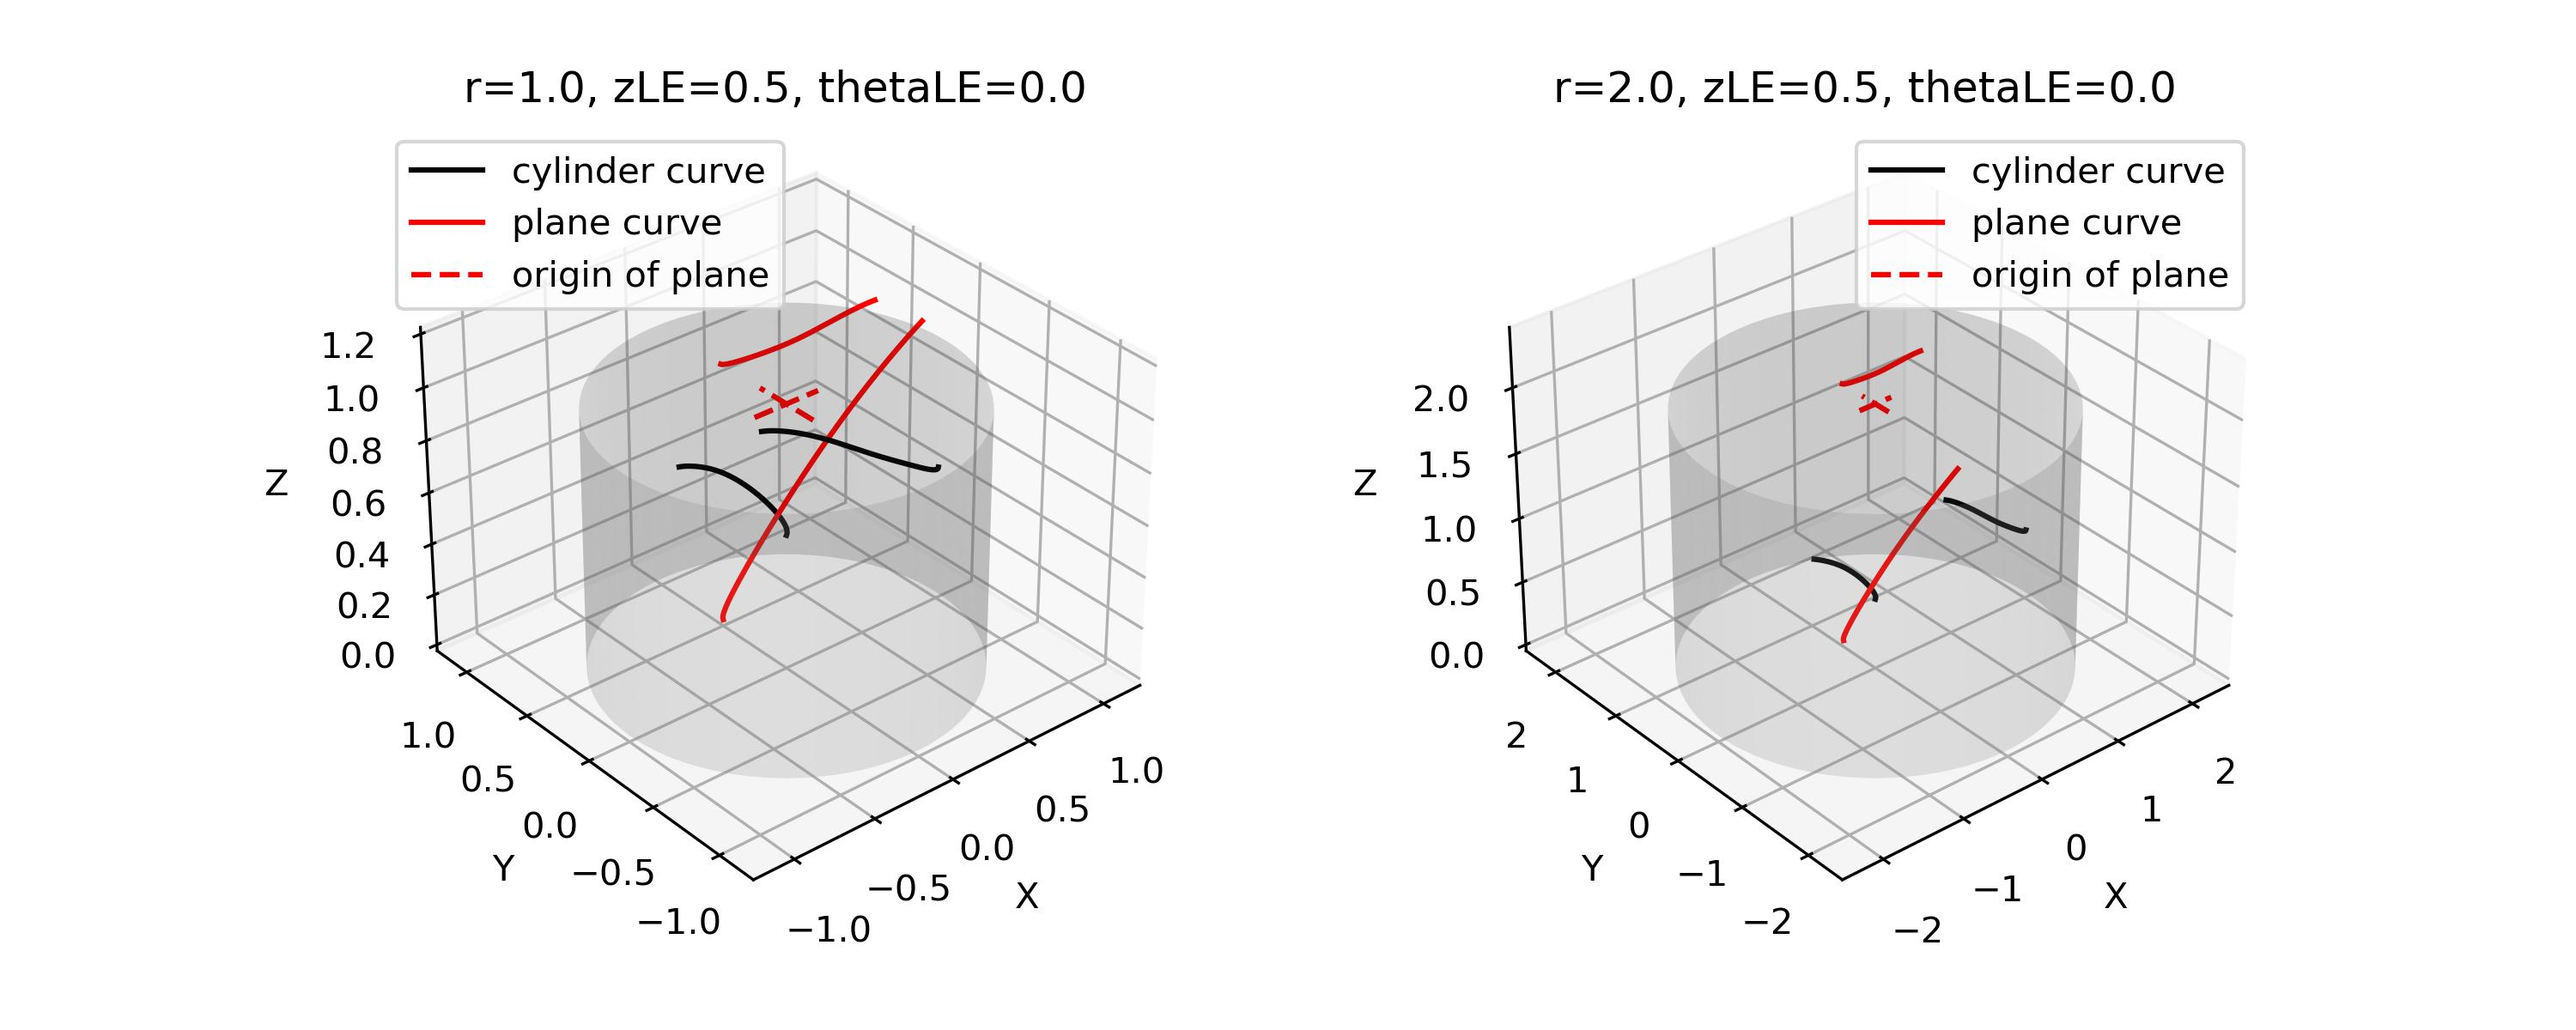
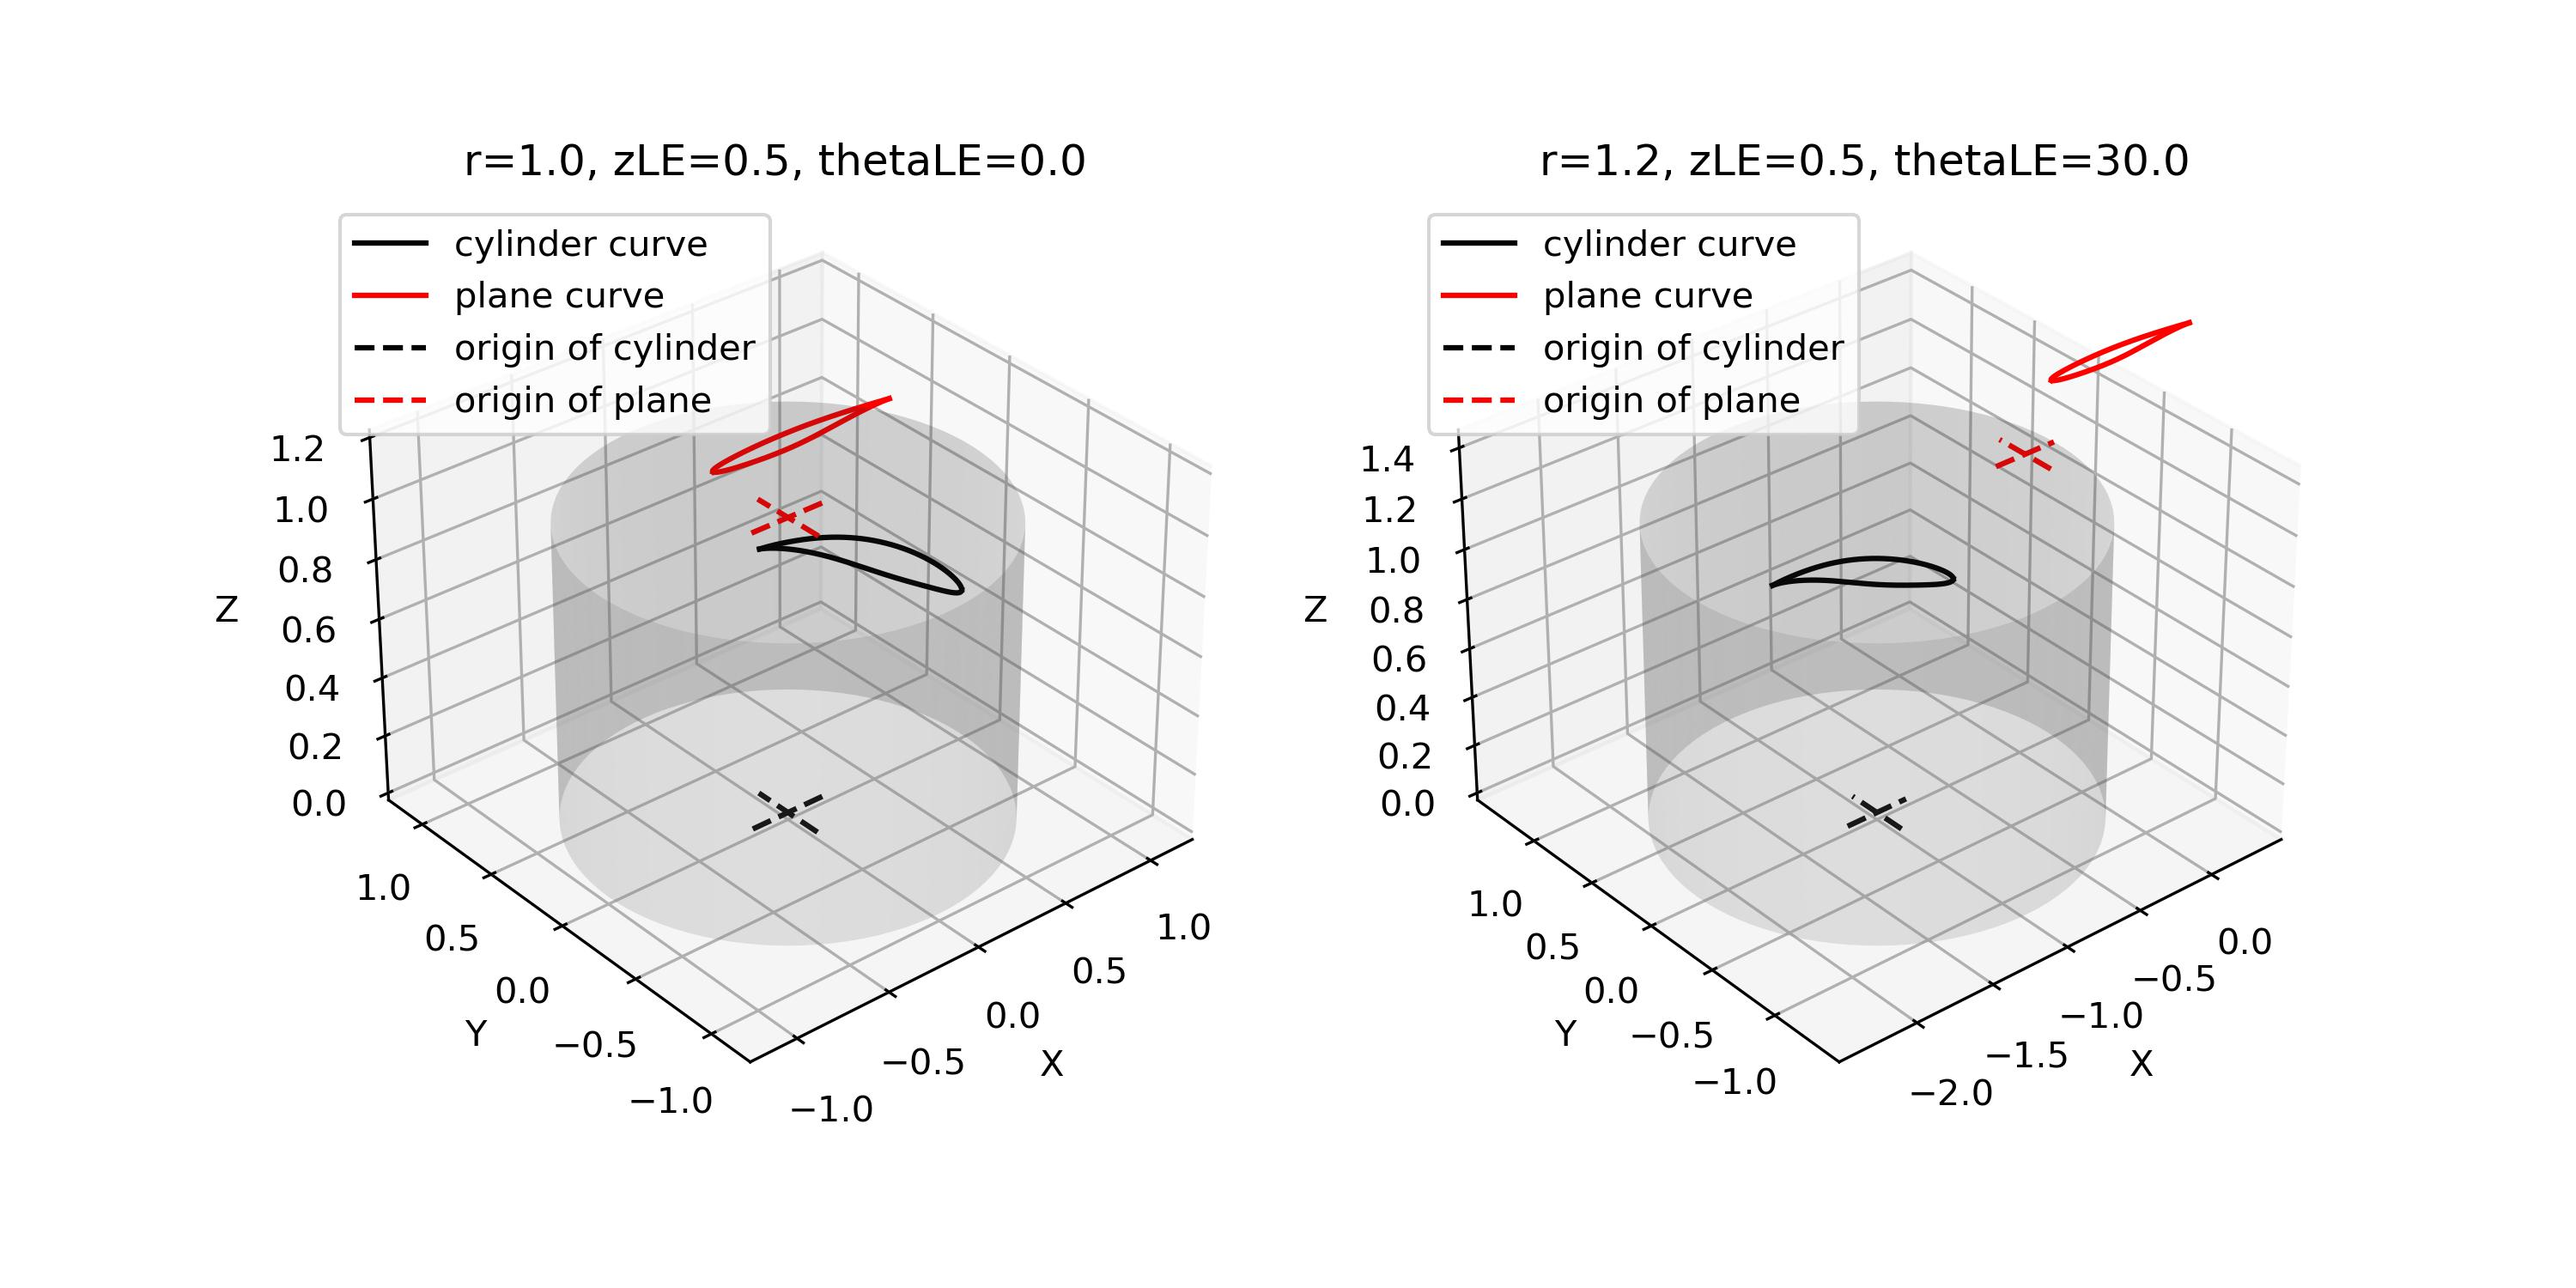
Tutorial curve_transform

diff --git a/cst_modeling/basic.py b/cst_modeling/basic.py
@@ -1707,8 +1707,8 @@ def transform(xu: np.ndarray, xl: np.ndarray, yu: np.ndarray, yl: np.ndarray,
 
     #* Rotation
     if not rot is None:
-        xu_new, yu_new, _ = rotate(xu_new, yu_new, None, angle=rot, origin=[xr, yr, 0.0], axis='Z')
-        xl_new, yl_new, _ = rotate(xl_new, yl_new, None, angle=rot, origin=[xr, yr, 0.0], axis='Z')
+        xu_new, yu_new, _ = rotate(xu_new, yu_new, np.zeros_like(xu_new), angle=rot, origin=[xr, yr, 0.0], axis='Z')
+        xl_new, yl_new, _ = rotate(xl_new, yl_new, np.zeros_like(xu_new), angle=rot, origin=[xr, yr, 0.0], axis='Z')
 
     return xu_new, xl_new, yu_new, yl_new
 
@@ -1738,25 +1738,68 @@ def rotate(x: np.ndarray, y: np.ndarray, z: np.ndarray,
     >>> x_, y_, z_ = rotate(x, y, z, angle=0.0, origin=[0.0, 0.0, 0.0], axis='X')
     
     '''
-    cc = np.cos( angle/180.0*np.pi )
-    ss = np.sin( angle/180.0*np.pi )
-    x_ = copy.deepcopy(x)
-    y_ = copy.deepcopy(y)
-    z_ = copy.deepcopy(z)
-
     if axis in 'X':
-        y_ = origin[1] + (y-origin[1])*cc - (z-origin[2])*ss
-        z_ = origin[2] + (y-origin[1])*ss + (z-origin[2])*cc
-
+        axis_vector=[1,0,0]
     if axis in 'Y':
-        z_ = origin[2] + (z-origin[2])*cc - (x-origin[0])*ss
-        x_ = origin[0] + (z-origin[2])*ss + (x-origin[0])*cc
-
+        axis_vector=[0,1,0]
     if axis in 'Z':
-        x_ = origin[0] + (x-origin[0])*cc - (y-origin[1])*ss
-        y_ = origin[1] + (x-origin[0])*ss + (y-origin[1])*cc
+        axis_vector=[0,0,1]
+
+    points = rotate_vector(x, y, z, angle=angle, origin=origin, axis_vector=axis_vector)
+    x_ = points[:,0]
+    y_ = points[:,1]
+    z_ = points[:,2]
 
     return x_, y_, z_
+
+def rotate_vector(x, y, z, angle=0, origin=[0, 0, 0], axis_vector=[0,0,1]) -> np.ndarray:
+    '''
+    Rotate 3D points (vectors) by axis-angle representation.
+
+    Parameters
+    ----------
+    x, y, z : float or ndarray [:]
+        coordinates of the points.
+    angle : float
+        rotation angle (deg) about the axis (right-hand rule).
+    origin : ndarray [3]
+        origin of the rotation axis.
+    axis_vector : ndarray [3]
+        indicating the direction of an axis of rotation.
+        The input `axis_vector` will be normalized to a unit vector `e`.
+        The rotation vector, or Euler vector, is `angle*e`.
+
+    Returns
+    --------
+    points : ndarray [3] or [:,3]
+        coordinates of the rotated points
+        
+    Examples
+    --------
+    >>> points = rotate_vector(x, y, z, angle=0, origin=[0, 0, 0], axis_vector=[0,0,1])
+    
+    References
+    ----------
+    
+    https://docs.scipy.org/doc/scipy/reference/generated/scipy.spatial.transform.Rotation.html#scipy.spatial.transform.Rotation
+    
+    https://en.wikipedia.org/wiki/Axis%E2%80%93angle_representation
+    
+    https://en.wikipedia.org/wiki/Rotation_matrix
+    
+    '''
+    origin = np.array(origin)
+    vector = np.transpose(np.array([x, y, z]))  # [3] or [:,3]
+    vector = vector - origin
+    
+    rotation_vector = np.array(axis_vector)/np.linalg.norm(axis_vector)
+
+    rot = Rotation.from_rotvec(angle*rotation_vector, degrees=True)
+    
+    # In terms of rotation matricies, this application is the same as rot.as_matrix().dot(vector).
+    points = rot.apply(vector) + origin
+    
+    return points
 
 def stretch_fixed_point(x: np.ndarray, y: np.ndarray, dx=0.0, dy=0.0, 
                         xm=None, ym=None, xf=None, yf=None) -> Tuple[np.ndarray, np.ndarray]:
@@ -1807,7 +1850,7 @@ def stretch_fixed_point(x: np.ndarray, y: np.ndarray, dx=0.0, dy=0.0,
     return x_, y_
 
 def fromCylinder(x: np.ndarray, y: np.ndarray, z: np.ndarray, 
-                 flip=True, origin=None) -> Tuple[np.ndarray, np.ndarray, np.ndarray]:
+                 flip=True, origin=[0, 0]) -> Tuple[np.ndarray, np.ndarray, np.ndarray]:
     '''
     Bend the cylinder curve to a 2D plane curve.
 
@@ -1817,8 +1860,8 @@ def fromCylinder(x: np.ndarray, y: np.ndarray, z: np.ndarray,
         coordinates of the curve on a cylinder. `x` and `y` must not be 0 at the same time.
     flip : bool
         if True, flip the X of the extracted plane curve.
-    origin: {None, list of float}
-        if provided a list [x0, y0], the cylinder origin is [x0, y0].
+    origin: array_like
+        the cylinder origin, [x0, y0] (or [x0, y0, 0]).
 
     Returns
     ---------
@@ -1844,9 +1887,8 @@ def fromCylinder(x: np.ndarray, y: np.ndarray, z: np.ndarray,
     '''
     coef = -1.0 if flip else 1.0
 
-    if origin is not None:
-        x = x - origin[0]
-        y = y - origin[1]
+    x = x - origin[0]
+    y = y - origin[1]
 
     rr = np.sqrt(x*x+y*y)
     tt = np.arctan2(y, x) * coef
@@ -1858,7 +1900,7 @@ def fromCylinder(x: np.ndarray, y: np.ndarray, z: np.ndarray,
     return X, Y, Z
 
 def toCylinder(X: np.ndarray, Y: np.ndarray, Z: np.ndarray, 
-               flip=True, origin=None) -> Tuple[np.ndarray, np.ndarray, np.ndarray]:
+               flip=True, origin=[0, 0]) -> Tuple[np.ndarray, np.ndarray, np.ndarray]:
     '''
     Bend the plane sections to curves on a cylinder.
 
@@ -1868,8 +1910,8 @@ def toCylinder(X: np.ndarray, Y: np.ndarray, Z: np.ndarray,
         coordinates of the curve on a plane. `Z` must not be 0.
     flip : bool
         if True, flip the X of the extracted plane curve.
-    origin: {None, list of float}
-        if provided a list [x0, y0], the cylinder origin is [x0, y0].
+    origin: array_like
+        the cylinder origin, [x0, y0] (or [x0, y0, 0]).
 
     Returns
     ---------
@@ -1906,60 +1948,11 @@ def toCylinder(X: np.ndarray, Y: np.ndarray, Z: np.ndarray,
         x[i] = r*np.cos(theta)
         y[i] = r*np.sin(theta)
 
-    if origin is not None:
-        x = x + origin[0]
-        y = y + origin[1]
+    x = x + origin[0]
+    y = y + origin[1]
 
     return x, y, z
 
-def rotate_vector(x, y, z, angle=0, origin=[0, 0, 0], axis_vector=[0,0,1]) -> np.ndarray:
-    '''
-    Rotate 3D points (vectors) by axis-angle representation.
-
-    Parameters
-    ----------
-    x, y, z : float or ndarray [:]
-        coordinates of the points.
-    angle : float
-        rotation angle (deg) about the axis (right-hand rule).
-    origin : ndarray [3]
-        origin of the rotation axis.
-    axis_vector : ndarray [3]
-        indicating the direction of an axis of rotation.
-        The input `axis_vector` will be normalized to a unit vector `e`.
-        The rotation vector, or Euler vector, is `angle*e`.
-
-    Returns
-    --------
-    points : ndarray [3] or [:,3]
-        coordinates of the rotated points
-        
-    Examples
-    --------
-    >>> points = rotate_vector(x, y, z, angle=0, origin=[0, 0, 0], axis_vector=[0,0,1])
-    
-    References
-    ----------
-    
-    https://docs.scipy.org/doc/scipy/reference/generated/scipy.spatial.transform.Rotation.html#scipy.spatial.transform.Rotation
-    
-    https://en.wikipedia.org/wiki/Axis%E2%80%93angle_representation
-    
-    https://en.wikipedia.org/wiki/Rotation_matrix
-    
-    '''
-    origin = np.array(origin)
-    vector = np.transpose(np.array([x, y, z]))  # [3] or [:,3]
-    vector = vector - origin
-    
-    rotation_vector = np.array(axis_vector)/np.linalg.norm(axis_vector)
-
-    rot = Rotation.from_rotvec(angle*rotation_vector, degrees=True)
-    
-    # In terms of rotation matricies, this application is the same as rot.as_matrix().dot(vector).
-    points = rot.apply(vector) + origin
-    
-    return points
 
 #* ===========================================
 #* Interpolation

diff --git a/docs/tutorial/curve_transform.py b/docs/tutorial/curve_transform.py
@@ -153,17 +153,17 @@ def cylinder_to_plane():
     '''
     Transform a curve on a cylinder to a curve on a plane
     '''
-    from cst_modeling.basic import toCylinder, fromCylinder, rotate
+    from cst_modeling.basic import toCylinder, fromCylinder, rotate, rotate_vector
     from cst_modeling.section import cst_foil
 
-    fig = plt.figure(figsize=(10,4))
+    fig = plt.figure(figsize=(10,5))
 
     def _figure(ax, zLE, thetaLE, radius, origin):
     
         u = np.linspace(0, 2*np.pi, 101, endpoint=True)
         h = np.linspace(0, radius, 20)
-        x_cylinder = np.outer(np.sin(u), np.ones_like(h)*radius)
-        y_cylinder = np.outer(np.cos(u), np.ones_like(h)*radius)
+        x_cylinder = np.outer(np.sin(u), np.ones_like(h)*radius)+origin[0]
+        y_cylinder = np.outer(np.cos(u), np.ones_like(h)*radius)+origin[1]
         z_cylinder = np.outer(np.ones_like(u), h)
         
         
@@ -175,8 +175,9 @@ def cylinder_to_plane():
         xu, yu, zu = toCylinder(X, YU, np.ones_like(X)*radius, flip=False, origin=origin)
         xl, yl, zl = toCylinder(X, YL, np.ones_like(X)*radius, flip=False, origin=origin)
         
-        xu, yu, zu = rotate(zu, yu, zu, thetaLE, axis='Z')
-        xl, yl, zl = rotate(xl, yl, zl, thetaLE, axis='Z')
+        xu, yu, zu = rotate(xu, yu, zu, thetaLE, origin=origin, axis='Z')
+        xl, yl, zl = rotate(xl, yl, zl, thetaLE, origin=origin, axis='Z')
+        
         zu = zu + zLE
         zl = zl + zLE
         
@@ -185,19 +186,20 @@ def cylinder_to_plane():
 
         ax.plot3D(xu, yu, zu, 'k')
         ax.plot3D(XU_, YU_, ZU_, 'r')
-
+        ax.plot3D([origin[0]-0.2, origin[0]+0.2], [origin[1], origin[1]], [0, 0], 'k--')
         ax.plot3D([-0.2, 0.2], [0, 0], [radius, radius], 'r--')
-        ax.plot3D([0, 0], [-0.2, 0.2], [radius, radius], 'r--')
-
+        
         ax.plot3D(xl, yl, zl, 'k')
         ax.plot3D(XL_, YL_, ZL_, 'r')
-
+        ax.plot3D([origin[0], origin[0]], [origin[1]-0.2, origin[1]+0.2], [0, 0], 'k--')
+        ax.plot3D([0, 0], [-0.2, 0.2], [radius, radius], 'r--')
+        
         ax.plot_surface(x_cylinder, y_cylinder, z_cylinder, 
                         alpha=0.2, rstride=1, cstride=1, color='gray')
         
-        plt.legend(['cylinder curve', 'plane curve', 'origin of plane'])
+        plt.legend(['cylinder curve', 'plane curve', 'origin of cylinder', 'origin of plane'])
         
-        plt.title('r=%.1f, zLE=%.1f, thetaLE=%.1f'%(radius, zLE, thetaLE))
+        plt.title('r0=%.1f, zLE=%.1f, thetaLE=%.1f'%(radius, zLE, thetaLE))
 
         ax.set_xlabel('X')
         ax.set_ylabel('Y')
@@ -209,17 +211,16 @@ def cylinder_to_plane():
 
     ax = fig.add_subplot(1,2,1,projection='3d')
     
-    _figure(ax, zLE=0.5, thetaLE=0.0, radius=1.0, origin=[0, 0])
+    _figure(ax, zLE=0.5, thetaLE=0.0, radius=1.0, origin=[0, 0, 0])
     
     ax.view_init(elev=32, azim=-130)
     
     
     ax = fig.add_subplot(1,2,2,projection='3d')
     
-    _figure(ax, zLE=0.5, thetaLE=0.0, radius=2.0, origin=[0, 0])
+    _figure(ax, zLE=0.5, thetaLE=30.0, radius=1.2, origin=[-1, 0, 0])
     
     ax.view_init(elev=32, azim=-130)
-    
     
     plt.savefig('figures/cylinder_to_plane.jpg', dpi=300)
     plt.close()

diff --git a/cst_modeling/section.py b/cst_modeling/section.py
@@ -681,8 +681,8 @@ def normalize_foil(xu: np.ndarray, yu: np.ndarray, xl: np.ndarray, yl: np.ndarra
     twist = np.arctan(yTE/xTE)*180/np.pi
     chord = np.sqrt(xTE**2+yTE**2)
 
-    xu_, yu_, _ = rotate(xu_, yu_, None, angle=-twist, axis='Z')
-    xl_, yl_, _ = rotate(xl_, yl_, None, angle=-twist, axis='Z')
+    xu_, yu_, _ = rotate(xu_, yu_, np.zeros_like(xu_), angle=-twist, axis='Z')
+    xl_, yl_, _ = rotate(xl_, yl_, np.zeros_like(xu_), angle=-twist, axis='Z')
 
     #* Scale
     yu_ = yu_ / xu_[-1]
@@ -1102,7 +1102,7 @@ def fit_curve_with_twist(x: np.ndarray, y: np.ndarray, n_cst=7,
 
     x_ = (x - x[0])/chord
     y_ = (y - y[0])/chord
-    x_, y_, _ = rotate(x_, y_, None, angle=-twist, axis='Z')
+    x_, y_, _ = rotate(x_, y_, np.zeros_like(x_), angle=-twist, axis='Z')
     thick = np.max(y_, axis=0)
 
     coef = fit_curve(x_, y_, n_cst=n_cst, xn1=xn1, xn2=xn2)

diff --git a/docs/source/tutorial/curve_transform.rst b/docs/source/tutorial/curve_transform.rst
@@ -28,12 +28,15 @@ translation (`dx`, `dy`), scale (`scale`, `x0`, `y0`), and rotation (`rot`, `xr`
 
     Transform airfoil
 
-There is also a function `rotate` that can rotate a curve about the `X`, `Y` or `Z` axis.
+There are also a function `rotate` that can rotate a curve about the `X`, `Y` or `Z` axis.
+And a function `rotate_vector` that can rotate points about any given axis.
 
 .. code-block:: python
     :linenos:
 
-    x_, y_, z_ = rotate(x, y, z, angle=0.0, origin=[0.0, 0.0, 0.0], axis='X')
+    x_, y_, z_ = rotate(x, y, z, angle=10, origin=[0, 0, 0], axis='Z')
+
+    curve = rotate_vector(x, y, z, angle=10, origin=[0, 0, 0], axis_vector=[0,0,1])
 
 
 Normalize airfoil
@@ -107,7 +110,11 @@ The transformation is defined by :eq:`cylinder2plane`. This shows that the 2D cu
     \right.
     :label: cylinder2plane
 
-:numref:`cylinder_to_plane` shows the cylinder curve and the corresponding plane curve. 
+:numref:`cylinder_to_plane` shows the cylinder curve and the corresponding plane curve.
+
+- An increment of the azimuth angle :math:`\theta` leads to an increment of :math:`X` (airfoil).
+- An increment of the :math:`z` coordinate (blade) leads to the same displacement of :math:`Y` (airfoil).
+- The radius of cylinder :math:`r_0` is the :math:`Z` coordinates of the plane (airfoil).
 
 .. code-block:: python
     :linenos:
